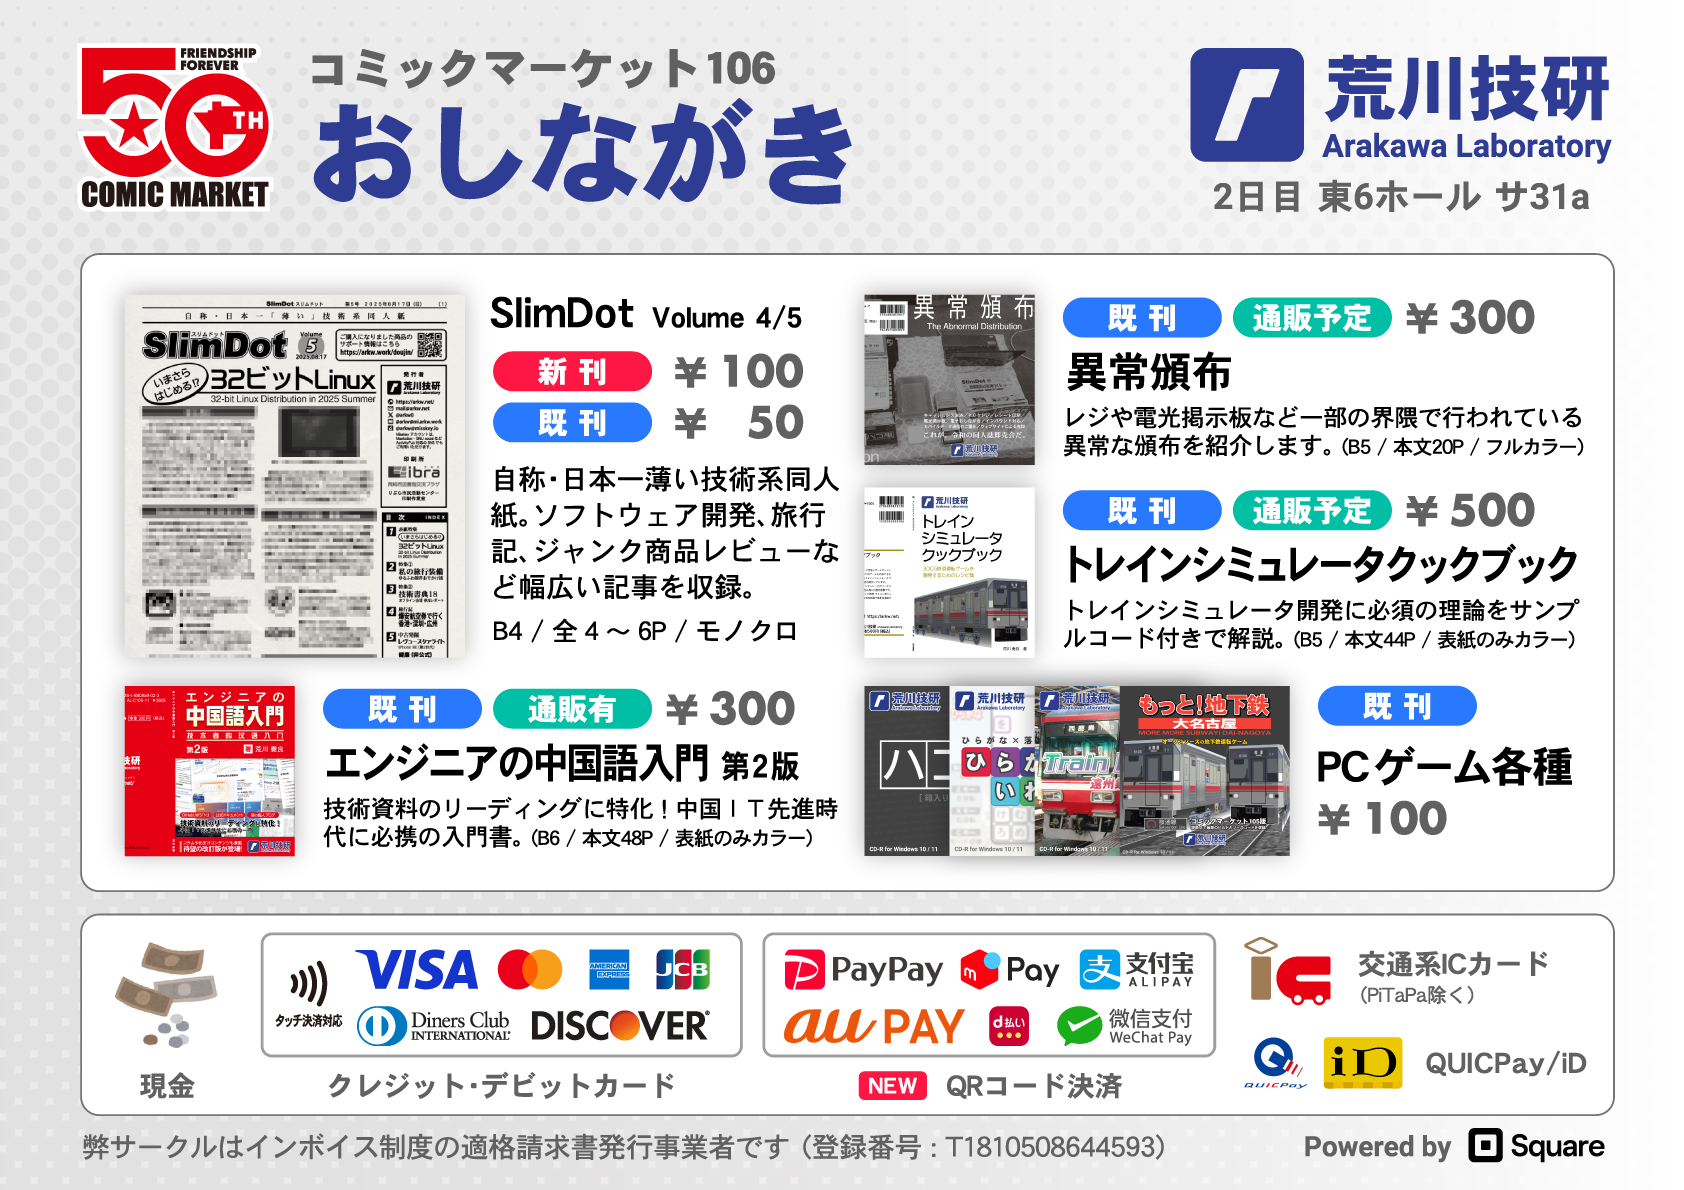
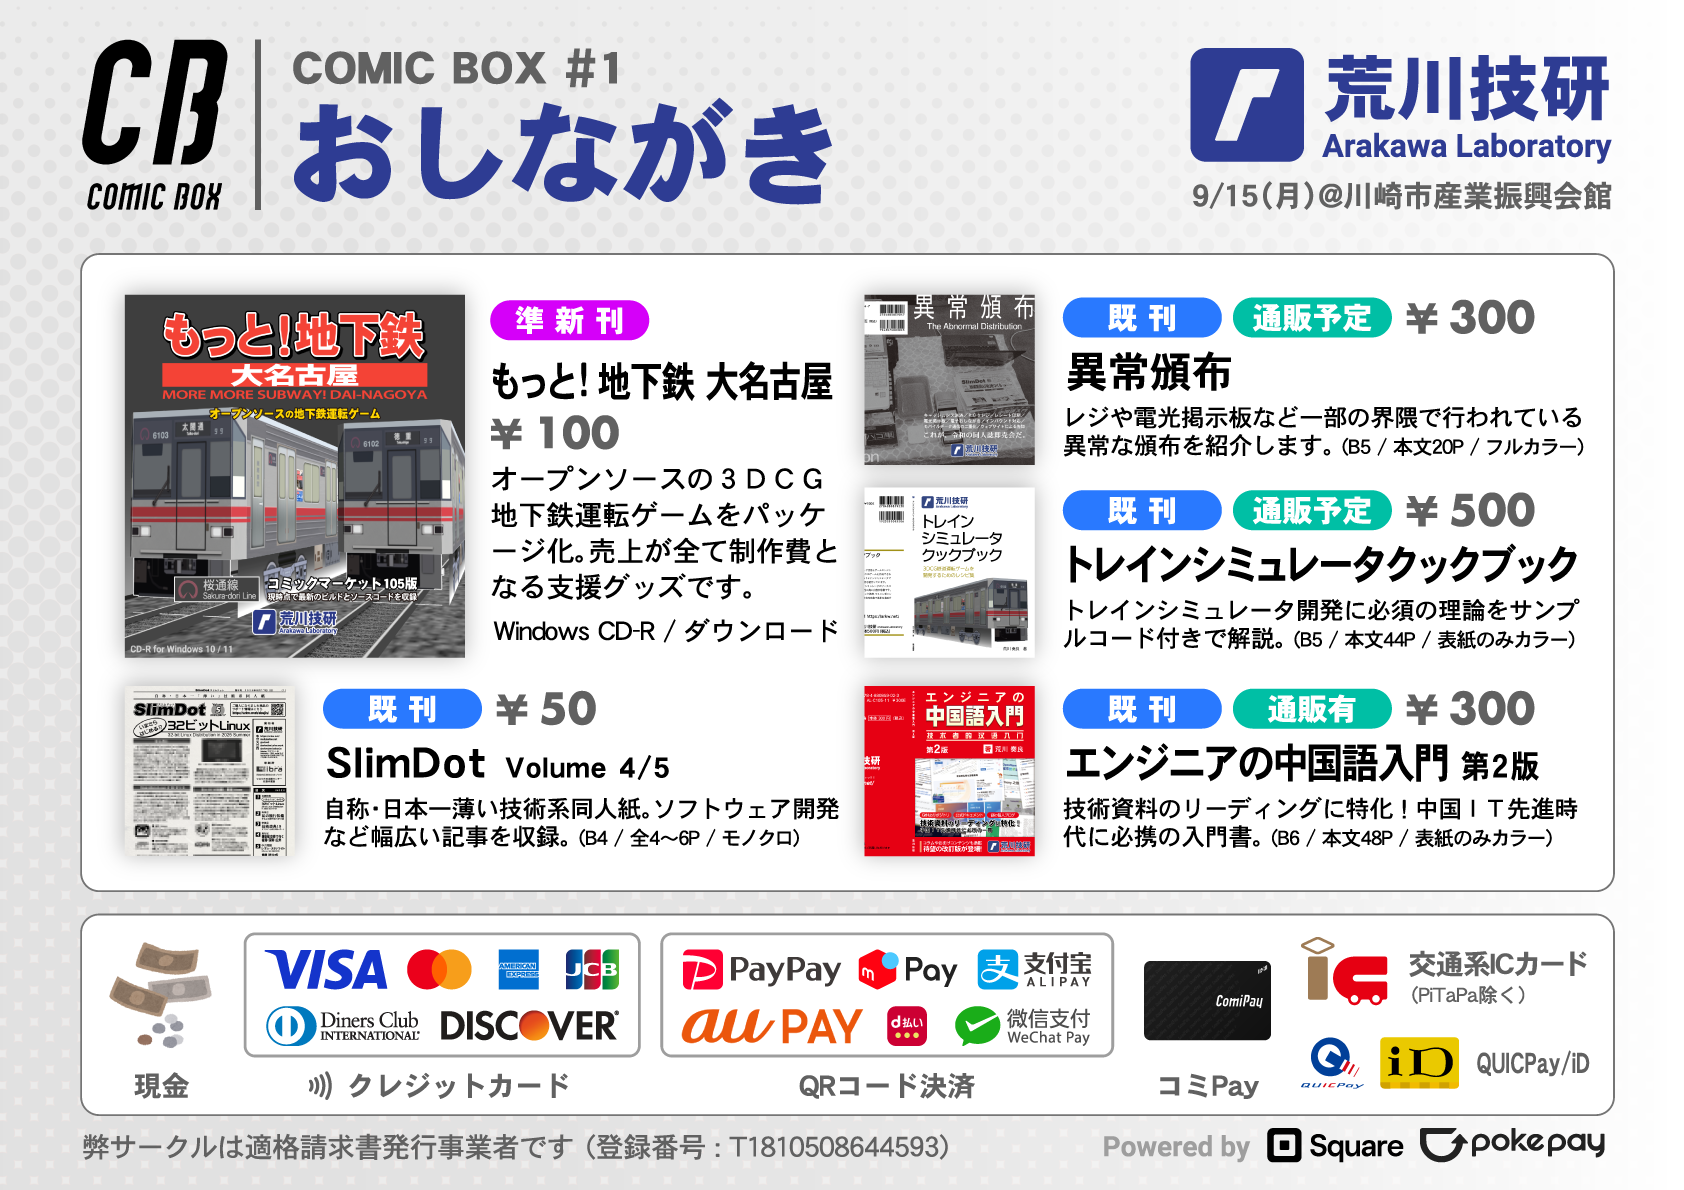
COMIC BOX #1

diff --git a/ALPS-FE/app/src/main/java/jp/arkw/alps/fe/MainActivity.java b/ALPS-FE/app/src/main/java/jp/arkw/alps/fe/MainActivity.java
@@ -102,15 +102,12 @@ public class MainActivity extends AppCompatActivity implements View.OnClickListe
         }
         fileLog = new File(context.getFilesDir(), "log.txt");
 
-        items.add(new Item("SlimDot Volume.5", 100, R.drawable.book, -1));
+        items.add(new Item("SlimDot Volume.5", 50, R.drawable.book, -1));
         items.add(new Item("SlimDot Volume.4", 50, R.drawable.book, -1));
         items.add(new Item("異常頒布", 300, R.drawable.book, -1));
         items.add(new Item("ﾄﾚｲﾝｼﾐｭﾚｰﾀｸｯｸﾌﾞｯｸ", 500, R.drawable.book, -1));
         items.add(new Item("ｴﾝｼﾞﾆｱの中国語入門 第2版", 300, R.drawable.book, -1));
         items.add(new Item("もっと! 地下鉄 大名古屋", 100, R.drawable.gamecd, -1));
-        items.add(new Item("Train Driver 遠州鉄道編", 100, R.drawable.gamecd, R.drawable.dlcard1));
-        items.add(new Item("ハコ単", 100, R.drawable.gamecd, R.drawable.dlcard2));
-        items.add(new Item("ひらがないれーす", 100, R.drawable.gamecd, R.drawable.dlcard3));
 
         textView = findViewById(R.id.text_view);
         textViewIP = findViewById(R.id.text_view_ip);
@@ -235,7 +232,7 @@ public class MainActivity extends AppCompatActivity implements View.OnClickListe
             boolean isMoney = intent.getBooleanExtra("IS_MONEY", false);
             // レシート印刷
             printImage(BitmapFactory.decodeResource(getResources(), R.drawable.receipt1));
-            printText("コミックマーケット106\n2日目(日) 東6ホール サ31a\n", 0);
+            printText("COMIC BOX #1 配置番号03\n", 0);
             printImage(BitmapFactory.decodeResource(getResources(), R.drawable.receipt2));
             printText("登録番号 T1810508644593\n", 2);
             Date date = new Date();
@@ -253,7 +250,7 @@ public class MainActivity extends AppCompatActivity implements View.OnClickListe
                 }
             }
             printLine();
-            final int tax = (int) Math.floor(total / 1.1 * 0.1);
+            final int tax = (int) Math.round(total / 1.1 * 0.1);
             printDoubleText("小計", "￥ " + total);
             printDoubleText(" 内税 10%対象額", "￥ " + total);
             printDoubleText(" 内税 10%", "￥ " + tax);
